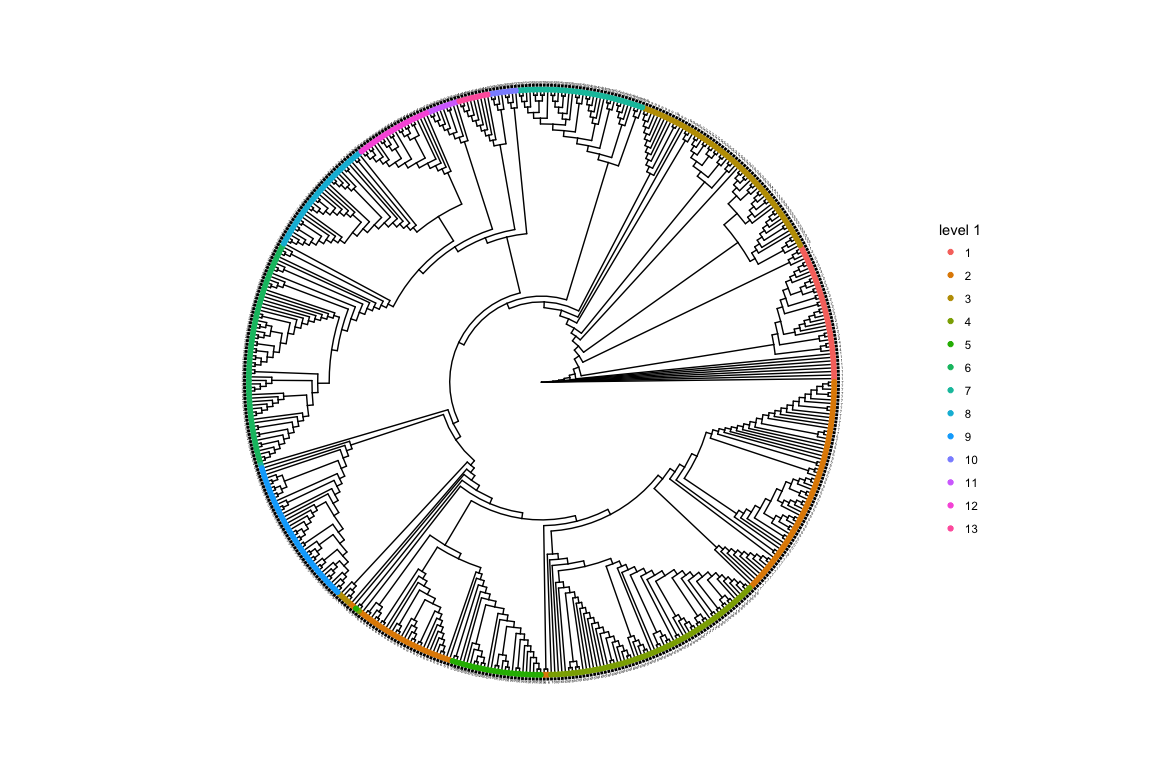
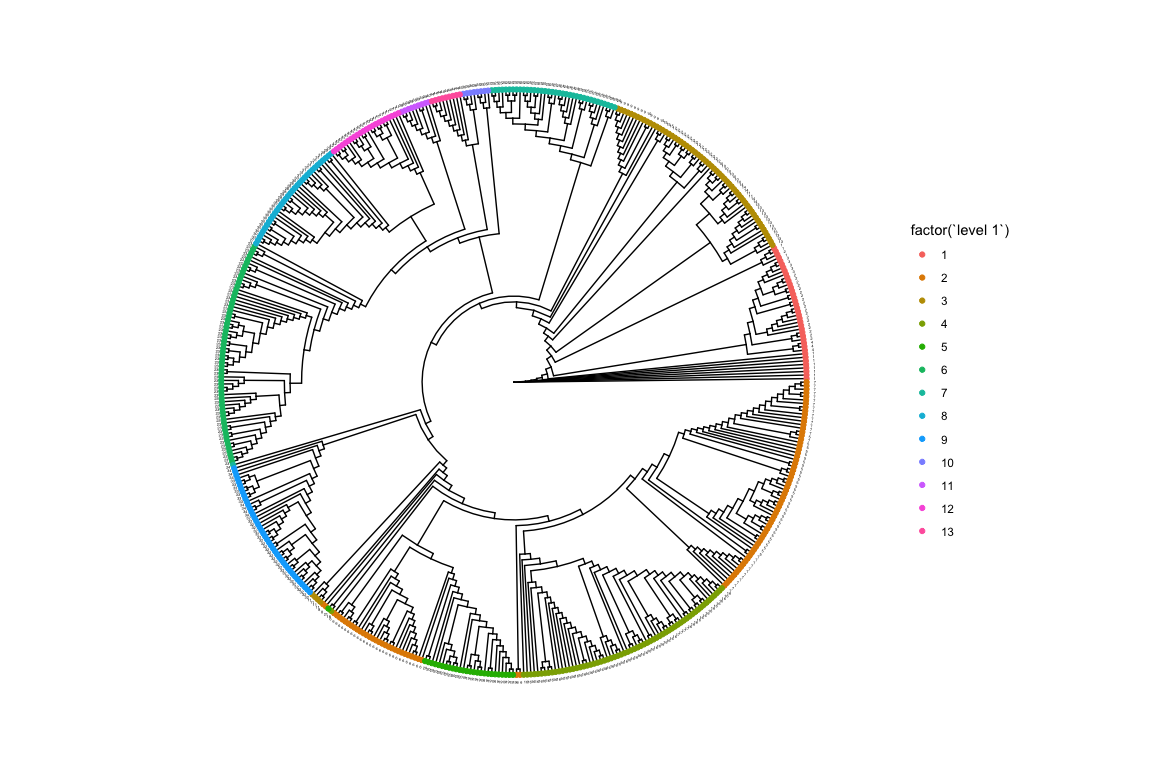
updated readme and fixed example

Changed region(s): [[0.1875, 0.0938, 0.75, 0.9062], [0.8125, 0.3438, 0.8438, 0.6875], [0.7812, 0.2812, 0.875, 0.3125]]

diff --git a/README.md b/README.md
@@ -56,6 +56,7 @@ The hierBAPS algorithm was introduced in (Cheng et al. 2013) and provides a meth
 4.  The initial number of populations should be set much higher than the expected number of populations.
 5.  More search rounds of the algorithm can be added using the `n.extra.rounds` parameter.
 6.  To get reproducible results the seed in R must be set.
+7.  When running larger datasets increasing R's stack size limit might be required. `options(expressions=10000)`
 
 Libraries
 ---------
@@ -112,8 +113,8 @@ We can also check how long hierBAPS takes to run on the test dataset of 515 samp
 
 ``` r
 system.time(hierBAPS(snp.matrix, max.depth = 2, n.pops = 20, quiet = TRUE))
-#>    user  system elapsed 
-#> 118.141  18.070 140.252
+#>     user   system  elapsed 
+#>  151.086   15.831 5639.306
 ```
 
 Plotting results
@@ -146,8 +147,7 @@ gg <- ggtree(iqtree, layout = "circular", branch.length = "none")
 gg <- gg %<+% hb.results$partition.df
 gg <- gg + geom_tippoint(aes(color = factor(`level 1`)))
 gg <- gg + theme(legend.position = "right")
-gg <- gg + scale_color_discrete(name = "level 1")
-gg <- gg + geom_tiplab(aes(label = `level 2`), size = 1, align = TRUE, offset = 1)
+gg <- gg + geom_tiplab(aes(label = `level 2`), size = 1, offset = 1)
 gg
 ```
 
